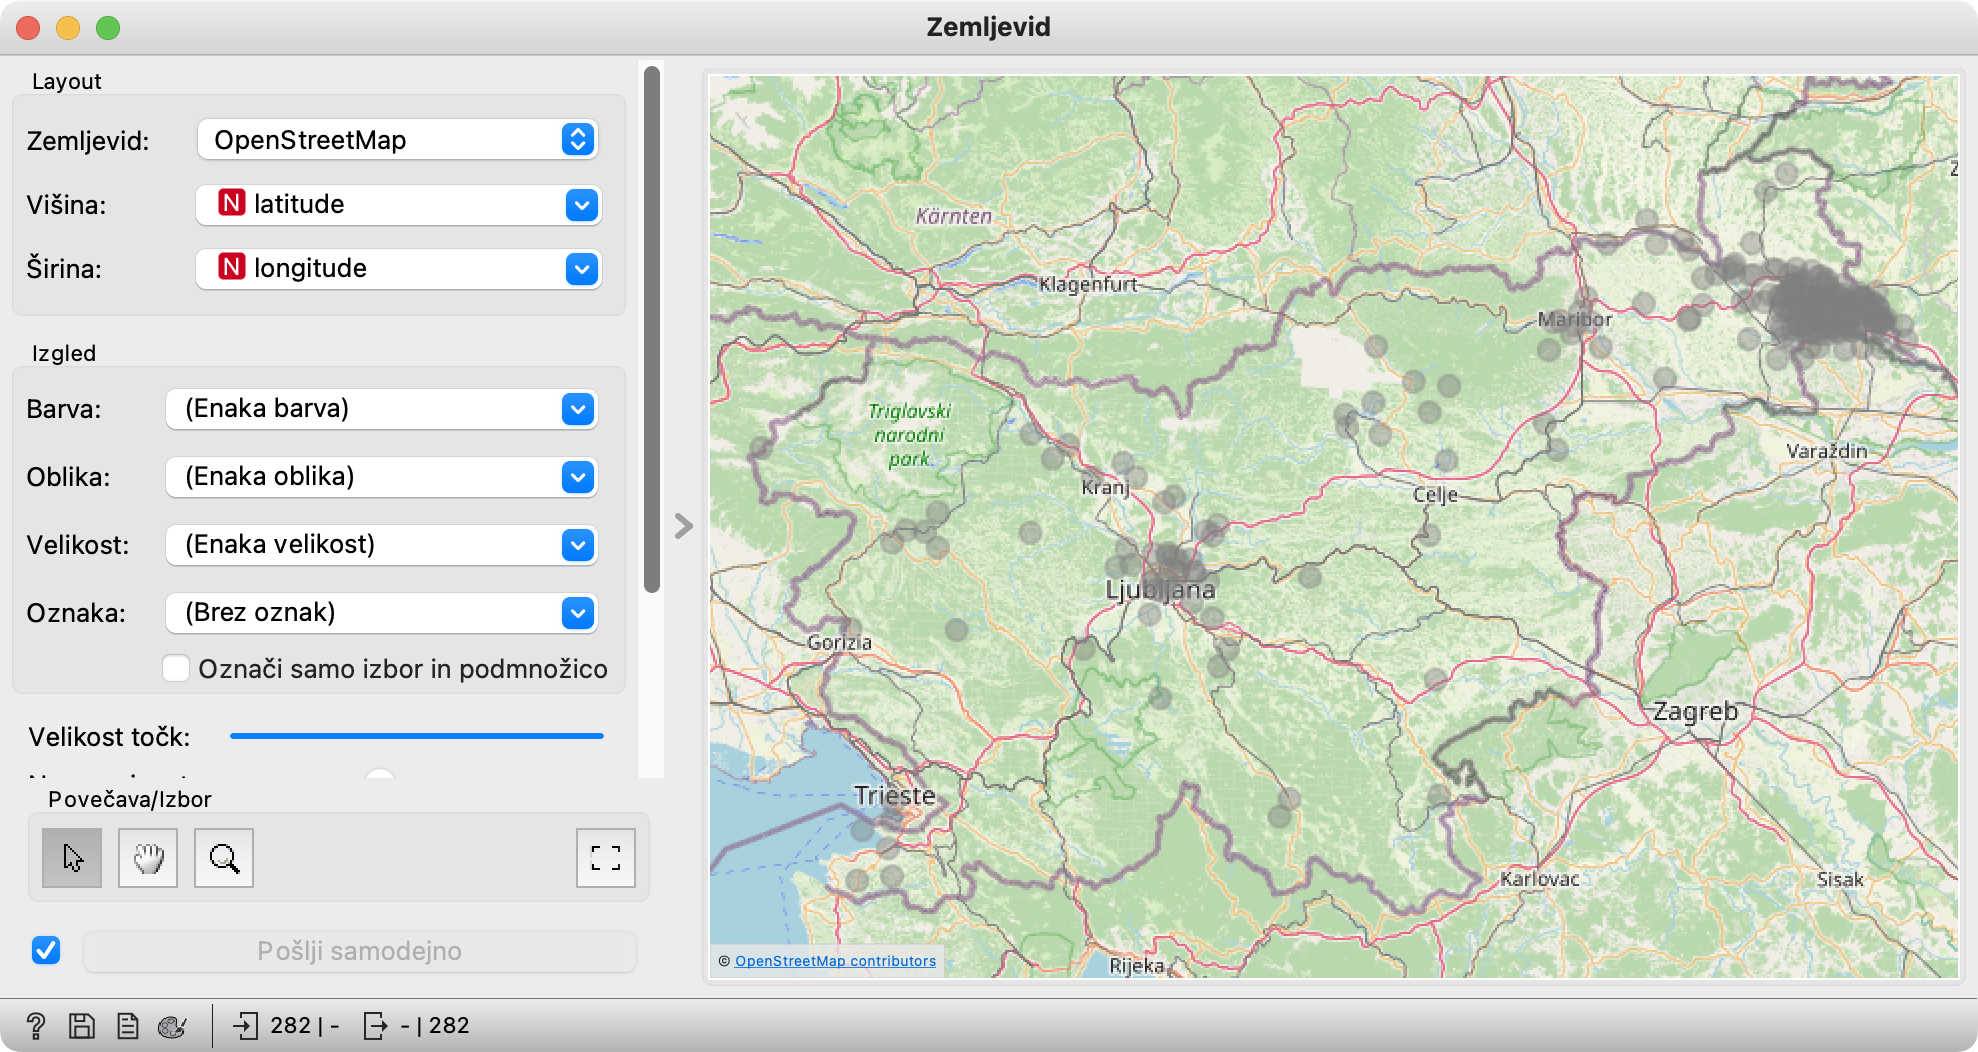
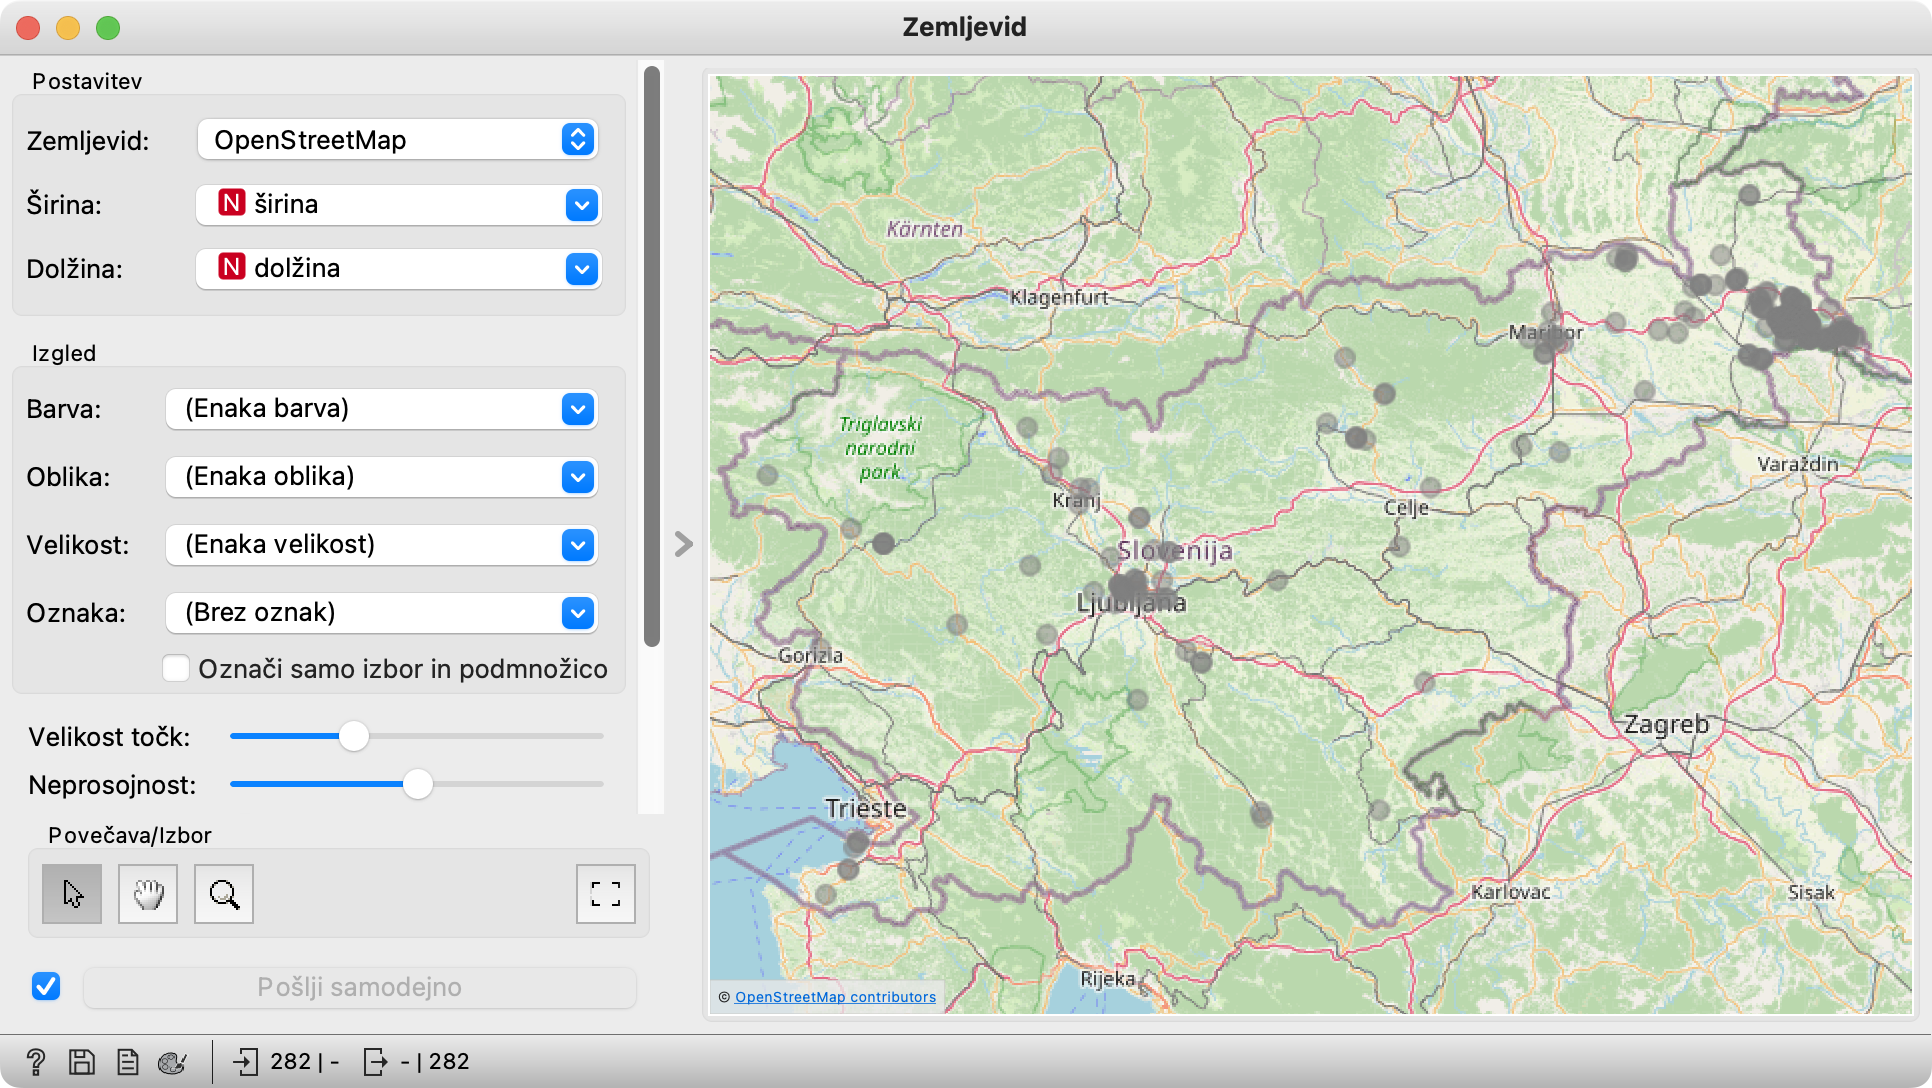
Pumice: visina -> dolzina

diff --git a/public/chapters/pumice/priimkoslovje/01-zajci-in-medvedi/index.md b/public/chapters/pumice/priimkoslovje/01-zajci-in-medvedi/index.md
@@ -50,7 +50,7 @@ Vrstice lahko izbiramo še z mnogimi drugimi gradniki, recimo s Tabelo. Za izbir
 
 #### Zemljevid
 
-Zemljevid pričakuje podatke, v katerih vsaka vrstica ustreza neki lokaciji. Če se stolpca z zemljepisno širino in višino imenujeta *širina* in *višina* (ali *latitude* in *longitude*, *lat* in *long* ali kaj podobnega), ju bo zaznal sam, sicer pa moramo v gradniku sami, ročno izbrati stolpca, ki vsebujeta koordinate.
+Zemljevid pričakuje podatke, v katerih vsaka vrstica ustreza neki lokaciji. Če se stolpca z zemljepisno širino in višino imenujeta *širina* in *dolžina* (ali *latitude* in *longitude*, *lat* in *long* ali kaj podobnega), ju bo zaznal sam, sicer pa moramo v gradniku sami, ročno izbrati stolpca, ki vsebujeta koordinate.
 
 <!!! float-aside retina !!!>
 Kje najdeš Hozjana? Kot se naučimo v posnetku, uporabimo Škatlo z brki, da izberemo Hozjane in jih pošljemo v Zemljevid. Točneje, v Prlekijo.
